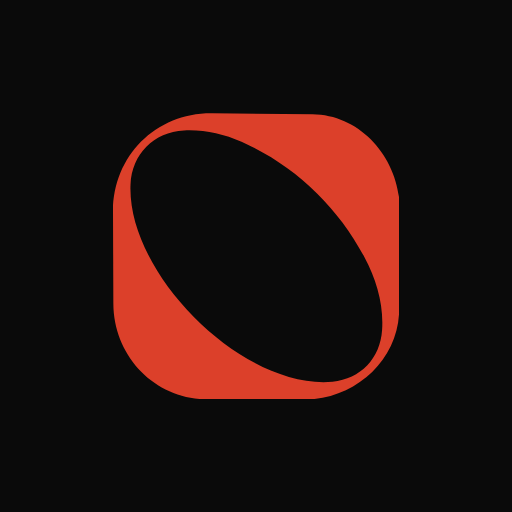
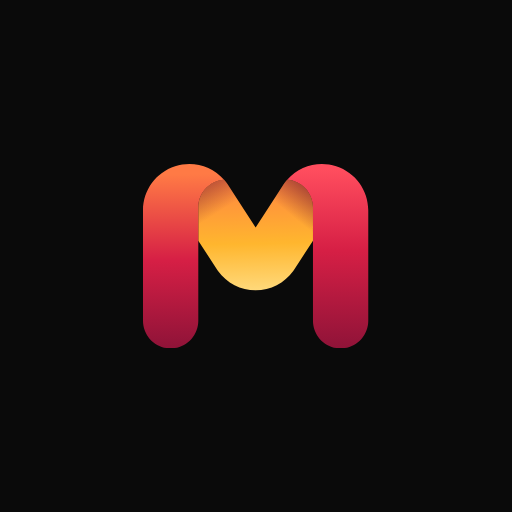
MOOVIN: los iconos de la app llevan la M, no la marca de IRIS
Los PNG del manifest se hicieron el 21 de agosto, antes de que MOOVIN
tuviera marca propia, y el favicon del 28 copio otra vez el trazado de
IRIS tenido de rojo. La M ya vivia solo dentro de index.html (intro y
cabecera): ahora sale a moovin/logo.svg y de ahi salen el favicon y los
tres iconos, sobre el #0a0a0a del manifest. El maskable se queda al 44%
del lienzo para caber en el recorte de Android.

De paso, el <link rel="icon"> era absoluto ("/favicon.svg"): en
moovin.live acertaba, pero en iris.it.com/moovin pedia el favicon de la
raiz del estudio y daba 404. Ahora es relativo.

La cache del service worker sube a v9 para que no queden los iconos
viejos guardados.

Claude-Session: https://claude.ai/code/session_01ADG31z2scGwmNpVM25u9Bb

Changed region(s): [[0.2188, 0.2188, 0.7812, 0.7812]]

diff --git a/moovin/index.html b/moovin/index.html
@@ -7,7 +7,7 @@
 <meta name="viewport" content="width=device-width, initial-scale=1, viewport-fit=cover" />
 <meta name="robots" content="noindex" />
 <title>MOOVIN — IRIS Studio</title>
-<link rel="icon" type="image/svg+xml" href="/favicon.svg" />
+<link rel="icon" type="image/svg+xml" href="favicon.svg" />
 
 <!-- Instalable como aplicación. En Android y en el escritorio basta con el
      manifiesto y el service worker, que registra adaptable.js; iOS no lee el

diff --git a/moovin/sw.js b/moovin/sw.js
@@ -21,7 +21,7 @@
    conexion, no la fuente de la verdad.
    ========================================================================== */
 
-const CACHE = 'moovin-interfaz-v8';
+const CACHE = 'moovin-interfaz-v9';
 
 /* La interfaz completa. Si alguno falla no se aborta la instalacion entera:
    un icono que no este no puede dejar la app sin instalar. */
